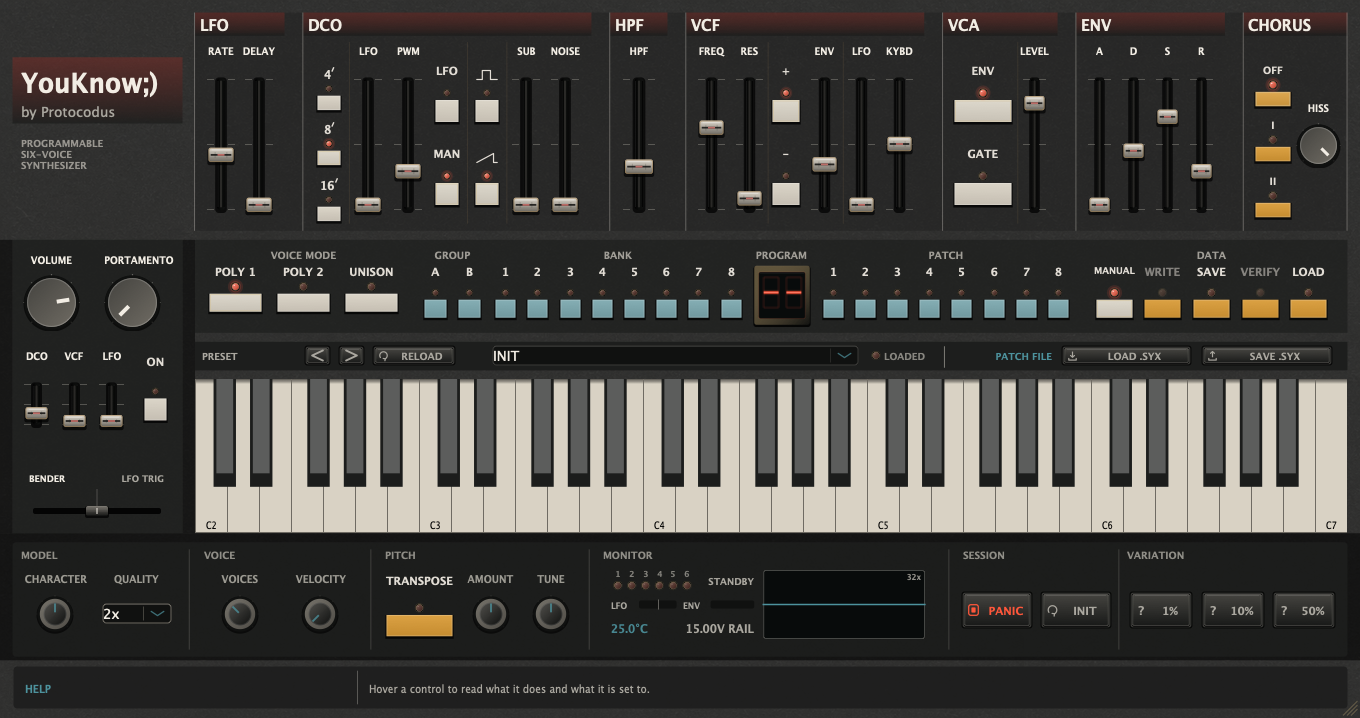
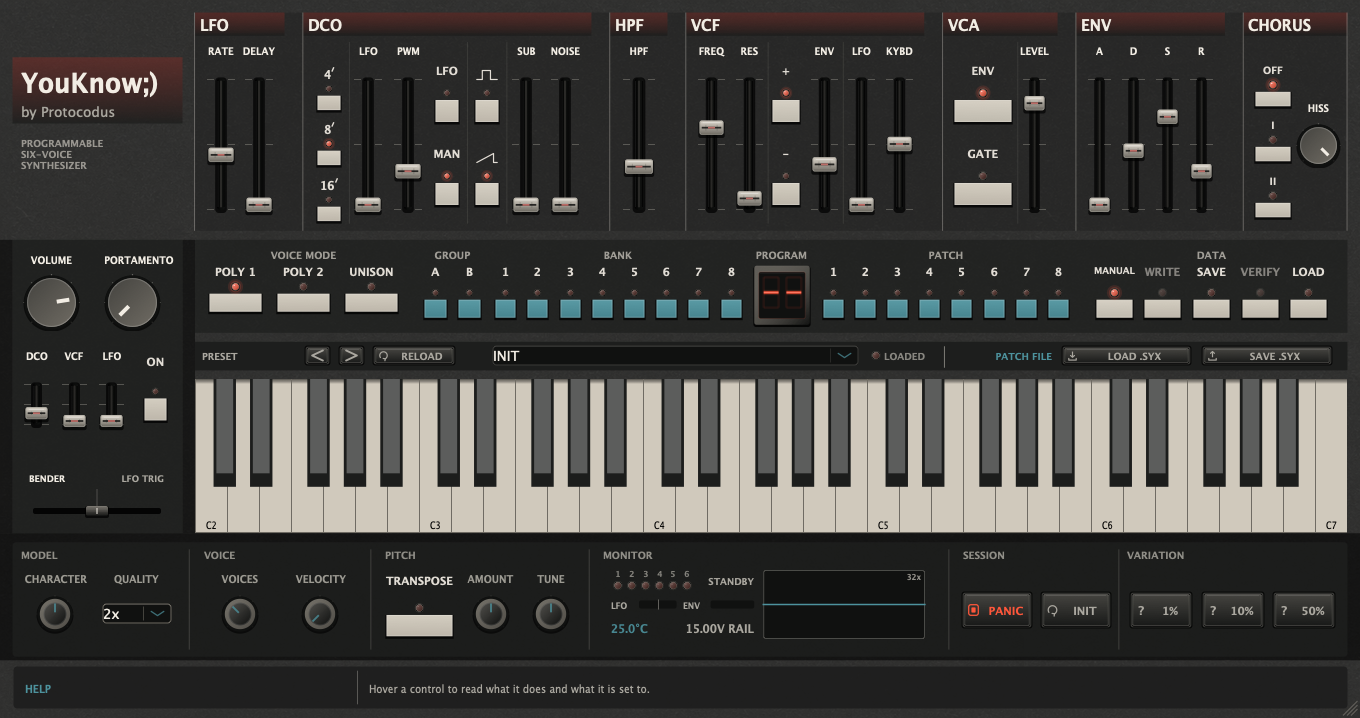
Reduce YouKnow106 palette

diff --git a/youknow106/Source/PluginEditor.cpp b/youknow106/Source/PluginEditor.cpp
@@ -389,7 +389,7 @@ YouKnow106LookAndFeel::YouKnow106LookAndFeel()
                fromPalette (panel::colour::textDim));
 
     setColour (juce::MidiKeyboardComponent::whiteNoteColourId,
-               fromPalette (panel::colour::keyIvory));
+               fromPalette (panel::colour::control));
     setColour (juce::MidiKeyboardComponent::blackNoteColourId,
                fromPalette (panel::colour::faceplateLow));
     setColour (juce::MidiKeyboardComponent::keySeparatorLineColourId,
@@ -959,7 +959,7 @@ void YouKnow106LookAndFeel::drawLabel (juce::Graphics& g, juce::Label& label)
                                   .withSizeKeepingCentre (diameter, diameter);
         const bool on = static_cast<bool> (label.getProperties().getWithDefault (
             statusLampOnProperty, false));
-        drawJewelLamp (g, lampArea, on, fromPalette (panel::colour::keyAmber));
+        drawJewelLamp (g, lampArea, on, fromPalette (panel::colour::led));
     }
 
     g.setColour (label.findColour (juce::Label::textColourId));
@@ -1824,9 +1824,7 @@ void YouKnow106AudioProcessorEditor::buildPanelControls()
                 isFootRegisterLegend (description.label) ? 0.80
                     : description.height > 110.0f ? 0.34
                     : description.height > 65.0f ? 0.62 : 0.72);
-            const auto keyColour = description.section == 8
-                                 ? fromPalette (panel::colour::keyAmber)
-                                 : fromPalette (panel::colour::keyIvory);
+            const auto keyColour = fromPalette (panel::colour::control);
             entry.button->setColour (juce::TextButton::buttonColourId, keyColour);
             entry.button->setColour (juce::TextButton::buttonOnColourId,
                                      keyColour.brighter (0.08f));
@@ -2040,9 +2038,9 @@ void YouKnow106AudioProcessorEditor::buildUtilityStrip()
     unisonButton.getProperties().set (hardwareStyleProperty, true);
     unisonButton.getProperties().set (hardwareKeyCentreProperty, 0.62);
     unisonButton.setColour (juce::TextButton::buttonColourId,
-                            fromPalette (panel::colour::keyIvory));
+                            fromPalette (panel::colour::control));
     unisonButton.setColour (juce::TextButton::buttonOnColourId,
-                            fromPalette (panel::colour::keyIvory).brighter (0.08f));
+                            fromPalette (panel::colour::control).brighter (0.08f));
     unisonButton.setTooltip (
         "Convenience key for pressing both original POLY contacts together "
         "to enter Solo Unison; the hardware has no separate Unison key.");
@@ -2053,7 +2051,7 @@ void YouKnow106AudioProcessorEditor::buildUtilityStrip()
     portamentoToggleButton.getProperties().set (hardwareStyleProperty, true);
     portamentoToggleButton.getProperties().set (hardwareKeyCentreProperty, 0.62);
     portamentoToggleButton.setColour (juce::TextButton::buttonColourId,
-                                      fromPalette (panel::colour::keyIvory));
+                                      fromPalette (panel::colour::control));
     portamentoToggleButton.setTooltip (
         "Switches portamento off or restores its last non-zero time, matching "
         "the separate switch beside the original Portamento Time knob.");
@@ -2198,9 +2196,7 @@ void YouKnow106AudioProcessorEditor::buildPresetBar()
     presetEditedLabel.setText ("EDITED", juce::dontSendNotification);
     presetEditedLabel.setFont (panelFont (11.0f, true));
     presetEditedLabel.setColour (juce::Label::textColourId,
-                                 fromPalette (panel::colour::magenta)
-                                     .interpolatedWith (
-                                         fromPalette (panel::colour::text), 0.25f));
+                                 fromPalette (panel::colour::text));
     presetEditedLabel.setTooltip (
         "Lights when the current panel no longer matches the selected program.");
     presetEditedLabel.setName ("Program state");
@@ -2264,11 +2260,10 @@ void YouKnow106AudioProcessorEditor::buildHardwareProgrammer()
         addAndMakeVisible (button);
     };
 
-    const auto blue = fromPalette (panel::colour::keyBlue);
-    const auto amber = fromPalette (panel::colour::keyAmber);
-    const auto ivory = fromPalette (panel::colour::keyIvory);
+    const auto memory = fromPalette (panel::colour::cyan);
+    const auto neutral = fromPalette (panel::colour::control);
 
-    configureKey (keyTransposeButton, amber, "Key transpose",
+    configureKey (keyTransposeButton, neutral, "Key transpose",
                   "Switches the selected keyboard transposition on or off. "
                   "Choose its semitone amount with the adjacent AMOUNT knob.");
     attachKeyTransposeButton (keyTransposeButton);
@@ -2279,7 +2274,7 @@ void YouKnow106AudioProcessorEditor::buildHardwareProgrammer()
         const auto groupName = juce::String::charToString (
             static_cast<juce::juce_wchar> ('A' + index));
         button.setButtonText (groupName);
-        configureKey (button, blue, "Group " + groupName,
+        configureKey (button, memory, "Group " + groupName,
                       "Selects factory-memory group " + groupName
                           + " while retaining the chosen bank and patch number.");
         button.onClick = [this, index]
@@ -2294,7 +2289,7 @@ void YouKnow106AudioProcessorEditor::buildHardwareProgrammer()
         auto& button = bankButtons[static_cast<std::size_t> (index)];
         const auto number = juce::String (index + 1);
         button.setButtonText (number);
-        configureKey (button, blue, "Bank " + number,
+        configureKey (button, memory, "Bank " + number,
                       "Selects factory-memory bank " + number
                           + " while retaining the current group and patch number.");
         button.onClick = [this, index]
@@ -2309,7 +2304,7 @@ void YouKnow106AudioProcessorEditor::buildHardwareProgrammer()
         auto& button = patchButtons[static_cast<std::size_t> (index)];
         const auto number = juce::String (index + 1);
         button.setButtonText (number);
-        configureKey (button, blue, "Patch " + number,
+        configureKey (button, memory, "Patch " + number,
                       "Loads patch number " + number
                           + " from the selected factory group and bank.");
         button.onClick = [this, index]
@@ -2334,23 +2329,23 @@ void YouKnow106AudioProcessorEditor::buildHardwareProgrammer()
     hardwarePatchDisplay.setInterceptsMouseClicks (false, false);
     addAndMakeVisible (hardwarePatchDisplay);
 
-    configureKey (manualButton, ivory, "Manual mode",
+    configureKey (manualButton, neutral, "Manual mode",
                   "Selects the INIT/manual panel state instead of a stored "
                   "factory memory location.");
     manualButton.onClick = [this] { selectProgram (0); };
 
-    configureKey (writeButton, amber, "Write memory",
+    configureKey (writeButton, neutral, "Write memory",
                   "The original WRITE key is shown here; the bundled factory "
                   "bank is read-only, so host presets store edited states.");
     writeButton.setEnabled (false);
 
-    configureKey (syxSaveButton, amber, "Save patch file",
+    configureKey (syxSaveButton, neutral, "Save patch file",
                   syxSaveButton.getTooltip());
-    configureKey (verifyButton, amber, "Verify tape data",
+    configureKey (verifyButton, neutral, "Verify tape data",
                   "The original tape VERIFY key is shown here; file integrity "
                   "is checked automatically when a SysEx file is loaded.");
     verifyButton.setEnabled (false);
-    configureKey (syxLoadButton, amber, "Load patch file",
+    configureKey (syxLoadButton, neutral, "Load patch file",
                   syxLoadButton.getTooltip());
 
     shownProgram = -1;
@@ -2410,7 +2405,7 @@ void YouKnow106AudioProcessorEditor::refreshPresetBar()
     presetEditedLabel.getProperties().set (statusLampOnProperty, edited);
     presetEditedLabel.setColour (
         juce::Label::textColourId,
-        edited ? fromPalette (panel::colour::keyAmber).brighter (0.12f)
+        edited ? fromPalette (panel::colour::text)
                : fromPalette (panel::colour::textDim).withAlpha (0.76f));
     presetEditedLabel.setVisible (true);
     presetPrevButton.setEnabled (program > 0);

diff --git a/youknow106/Source/DSP/YouKnow106Panel.h b/youknow106/Source/DSP/YouKnow106Panel.h
@@ -90,17 +90,17 @@ inline constexpr std::uint32_t magenta       = 0xa8443cu; // oxblood enamel sign
 inline constexpr std::uint32_t cyan          = 0x4d929du; // desaturated programmer teal
 inline constexpr std::uint32_t control       = 0xd0c9bcu; // warm nickel/ivory control caps
 inline constexpr std::uint32_t controlShadow = 0x6f6b63u;
-inline constexpr std::uint32_t brass         = 0xa78758u; // indicator bezels and fine trim
-inline constexpr std::uint32_t brassHigh     = 0xd0b47du;
 inline constexpr std::uint32_t led           = 0xff573bu; // warm red panel lamps
 inline constexpr std::uint32_t ledDim        = 0x491b16u;
 inline constexpr std::uint32_t text          = 0xf2ede4u;
 inline constexpr std::uint32_t textDim       = 0xaaa79fu;
 inline constexpr std::uint32_t slot          = 0x101110u; // slider cut-out
-inline constexpr std::uint32_t scope         = 0x080b0bu; // scope screen glass
-inline constexpr std::uint32_t keyBlue       = 0x7ca8aeu;
-inline constexpr std::uint32_t keyAmber      = 0xd99a35u;
-inline constexpr std::uint32_t keyIvory      = 0xd9d2c4u;
+inline constexpr std::uint32_t scope         = slot; // shared recess/scope glass
+
+// Semantic material roles reuse the two accent families and neutral metals;
+// they must not introduce extra decorative hues.
+inline constexpr std::uint32_t brass         = textDim;
+inline constexpr std::uint32_t brassHigh     = control;
 } // namespace colour
 
 // Geometry, in abstract panel units. The editor scales the whole description to

diff --git a/youknow106/Tests/PluginProcessorTests.cpp b/youknow106/Tests/PluginProcessorTests.cpp
@@ -4326,10 +4326,7 @@ void testEditorContrastAndFocusContract()
         paletteColour (panel::colour::magenta),
         paletteColour (panel::colour::cyan),
         paletteColour (panel::colour::control),
-        paletteColour (panel::colour::scope),
-        paletteColour (panel::colour::keyBlue),
-        paletteColour (panel::colour::keyAmber),
-        paletteColour (panel::colour::keyIvory)
+        paletteColour (panel::colour::scope)
     });
     for (const auto surface : focusSurfaces)
         expect (std::max (contrastRatio (scope, surface),

diff --git a/youknow106/README.md b/youknow106/README.md
@@ -722,12 +722,14 @@ bank/patch selection, MANUAL and SysEx SAVE/LOAD are live. OFF/I/II chorus keys
 and the oscillator's range and waveform keys are vertically grouped to keep
 both sections compact without losing the broad signal-flow order.
 
-The original surface is planar warm-charcoal metal with restrained oxblood and
-muted-teal accents, warm rectangular keys, jewel-style red lamps and warm-nickel
-fader caps. Engraved charcoal headers use only the concise LFO, DCO, HPF, VCF,
-VCA, ENV and CHORUS abbreviations. Whitespace and small recesses separate the
-controls without turning each section into a rounded dashboard card. Functional
-waveform, foot-register and action marks remain project-native vectors. Small
+The interface uses planar warm-charcoal metal with only two chromatic families:
+restrained oxblood and muted teal. Memory keys reuse the teal; every other
+switch and cap shares neutral nickel. Jewel-style red lamps remain the only
+bright state colour. Engraved charcoal headers use only the concise
+LFO, DCO, HPF, VCF, VCA, ENV and CHORUS abbreviations. Whitespace and small
+recesses separate the controls without turning each section into a rounded
+dashboard card. Functional waveform, foot-register and action marks remain
+project-native vectors. Small
 programmer legends use an open system sans rather than condensed display type,
 and the resize floor keeps them above the tested readability threshold.
 
